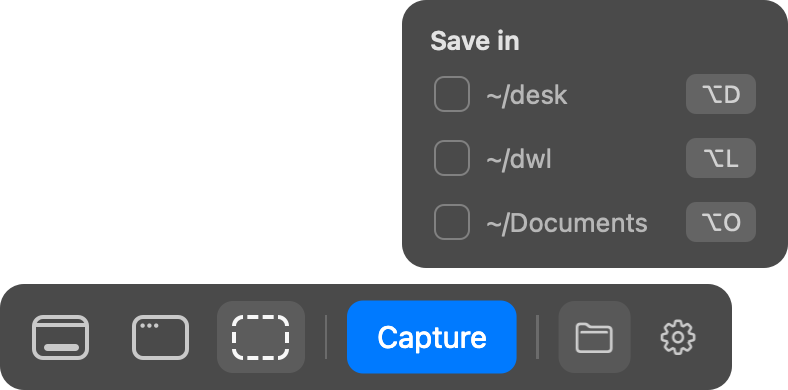
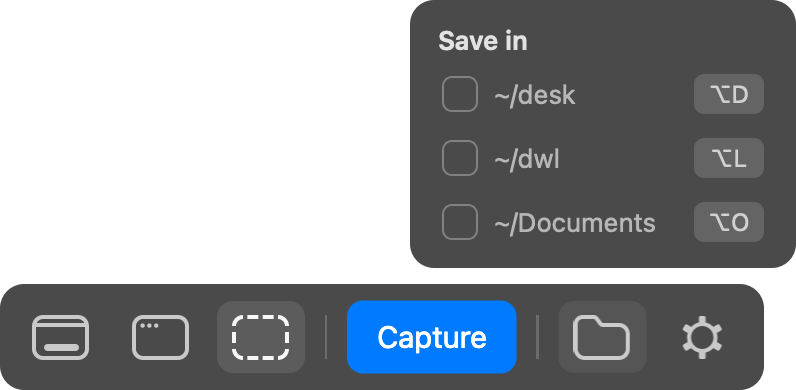
screenshot: folder and gear drawn in the stills' hand, 2 pt strokes on 44 pt buttons
The SF Symbols were finer and more detailed than the three stills beside them.

diff --git a/screenshot/Sources/Screenshot/Bar.swift b/screenshot/Sources/Screenshot/Bar.swift
@@ -66,7 +66,7 @@ final class Bar: NSPanel {
         x += 1 + Bar.gap
 
         for s in sections {
-            s.button.frame = CGRect(x: x, y: mid - 18, width: 36, height: 36)
+            s.button.frame = CGRect(x: x, y: mid - 18, width: 44, height: 36)
             x = s.button.frame.maxX + 6
             back.addSubview(s.button)
         }
@@ -309,14 +309,14 @@ final class IconButton: HoverButton {
 
     init(_ symbol: String, _ name: String) {
         super.init()
-        image = NSImage(systemSymbolName: symbol, accessibilityDescription: name)?
-            .withSymbolConfiguration(.init(pointSize: 17, weight: .regular))
+        image = Glyph.image(for: symbol)
+        setAccessibilityLabel(name)
         imagePosition = .imageOnly
         contentTintColor = NSColor.labelColor.withAlphaComponent(0.7)
     }
     required init?(coder: NSCoder) { nil }
 
-    override var ground: NSColor? { hovered || open ? NSColor.labelColor.withAlphaComponent(0.08) : nil }
+    override var ground: NSColor? { hovered || open ? NSColor.labelColor.withAlphaComponent(0.06) : nil }
 }
 
 /// One group of settings, hidden above its icon on the bar. Hovered, the icon lets it rise and
@@ -552,6 +552,42 @@ enum Glyph {
             case .window:
                 for i in 0..<3 { NSBezierPath(ovalIn: CGRect(x: 4.2 + CGFloat(i) * 3.4, y: 4.2, width: 2.2, height: 2.2)).fill() }
             case .area: break
+            }
+            return true
+        }
+        img.isTemplate = true
+        return img
+    }
+
+    /// The folder and the gear in the stills' hand: the same 2 pt stroke, size and corners.
+    static func image(for symbol: String) -> NSImage {
+        let img = NSImage(size: CGSize(width: 29, height: 22.5), flipped: true) { _ in
+            let p = NSBezierPath()
+            p.lineWidth = 2
+            if symbol == "folder" {
+                // A tab on the top left, the body below it.
+                p.move(to: CGPoint(x: 1, y: 12))
+                p.appendArc(from: CGPoint(x: 1, y: 1), to: CGPoint(x: 11, y: 1), radius: 3.5)
+                p.appendArc(from: CGPoint(x: 11, y: 1), to: CGPoint(x: 14, y: 5), radius: 1.5)
+                p.appendArc(from: CGPoint(x: 14, y: 5), to: CGPoint(x: 27.5, y: 5), radius: 1.5)
+                p.appendArc(from: CGPoint(x: 27.5, y: 5), to: CGPoint(x: 27.5, y: 21.5), radius: 4.5)
+                p.appendArc(from: CGPoint(x: 27.5, y: 21.5), to: CGPoint(x: 1, y: 21.5), radius: 4.5)
+                p.appendArc(from: CGPoint(x: 1, y: 21.5), to: CGPoint(x: 1, y: 1), radius: 4.5)
+                p.close()
+                p.stroke()
+            } else {
+                // A ring with six square teeth.
+                let c = CGPoint(x: 14.5, y: 11.25)
+                p.appendOval(in: CGRect(x: c.x - 6.75, y: c.y - 6.75, width: 13.5, height: 13.5))
+                p.stroke()
+                for i in 0..<6 {
+                    let t = AffineTransform(translationByX: c.x, byY: c.y)
+                    var turn = AffineTransform(rotationByDegrees: CGFloat(i) * 60)
+                    turn.append(t)
+                    let tooth = NSBezierPath(roundedRect: CGRect(x: -1.75, y: -10.75, width: 3.5, height: 4), xRadius: 0.75, yRadius: 0.75)
+                    tooth.transform(using: turn)
+                    tooth.fill()
+                }
             }
             return true
         }
